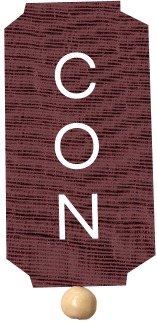
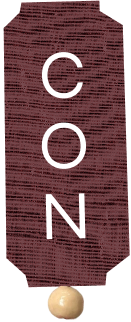
test

diff --git a/app/contact/contact.tsx b/app/contact/contact.tsx
@@ -452,7 +452,7 @@ export default function Contact() {
       );
 
       // If dragged up enough while open, close the form
-      if (isFormOpenRef.current && draggedDown < -200) {
+      if (isFormOpenRef.current && draggedDown < -100) {
         currentRotation.current = 0;
         if (formRef.current) {
           formRef.current.style.transition = "transform 0.4s ease-out";
@@ -492,7 +492,7 @@ export default function Contact() {
       }
 
       // If dragged down enough, treat as drawer handle pull
-      if (!isFormOpenRef.current && draggedDown > 200) {
+      if (!isFormOpenRef.current && draggedDown > 100) {
         currentRotation.current = 0;
         // Animate form to fully open, then hand off to state
         if (formRef.current) {
@@ -625,77 +625,77 @@ export default function Contact() {
       ref={contactRef}
     >
       <div
-        className="absolute inset-[0_0_auto_0] w-full ease-out duration-300 bg-(--slip) text-(--charm)"
+        className="absolute inset-[0_0_auto_0] w-full ease-out duration-500 bg-(--slip) text-(--charm)"
         style={{ transform: "translateY(-100%)" }}
         ref={formRef}
       >
-        <div className="absolute bottom-0 right-28 lg:right-76 w-20 lg:w-30 translate-[93%]">
+        <div className="absolute bottom-0 right-28 lg:right-78 w-20 lg:w-24 translate-[93.8%]">
           <svg
-            className="absolute z-1 top-0 -left-28/148 w-80/148"
-            viewBox="0 0 80 57"
+            className="absolute z-1 top-0 -left-26/107 w-80/107"
+            viewBox="0 0 80 50"
             fill="none"
             xmlns="http://www.w3.org/2000/svg"
           >
             <path
-              d="M0 0H80V1.16667C66.25 1.16667 66.25 21.5833 80 21.5833V57H0V0Z"
+              d="M0 0H80V1.16667C66.25 1.16667 66.25 21.5833 80 21.5833V50H0V0Z"
               fill="var(--slip)"
             />
           </svg>
           <div
-            className="relative aspect-148/805 origin-[33%_6%] rotate-0"
+            className="relative aspect-107/805 origin-[50%_7%] rotate-0"
             ref={momentumRef}
           >
             <Image
-              className="absolute top-0 left-0 aspect-103/209 w-103/148"
-              src="/images/chain-new.png"
+              className="absolute top-0 left-0 aspect-107/209 w-full"
+              src="/images/chain-final.png"
               alt="Chain"
-              width={103}
+              width={107}
               height={209}
             />
             <div
-              className="absolute top-[22.6%] left-[2.5%] aspect-148/623 w-full origin-[31%_0%] cursor-grab pointer-events-auto"
+              className="absolute top-182/805 left-0 aspect-107/623 w-full origin-[45%_-1%] cursor-grab pointer-events-auto"
               ref={swingingRef}
             >
-              <div className="relative aspect-148/205 w-full">
+              <div className="relative aspect-107/168 w-full">
                 <Image
-                  className="relative z-1 w-full aspect-148/205"
-                  src="/images/lanyard-string.png"
+                  className="relative z-1 w-full aspect-107/168"
+                  src="/images/djfskjdvf.png"
                   alt="Lanyard string"
-                  width={148}
-                  height={205}
+                  width={107}
+                  height={168}
                 />
                 <div
-                  className="absolute top-120/205 right-0 w-104/148 origin-[45%_0%]"
+                  className="absolute top-120/168 left-10/107 w-87/107 origin-[45%_0%]"
                   ref={swingExtra1Ref}
                 >
                   <Image
-                    className="w-full aspect-104/215"
-                    src="/images/con.png"
+                    className="w-full aspect-87/214"
+                    src="/images/con-tag.png"
                     alt="Con badge"
-                    width={104}
-                    height={215}
+                    width={87}
+                    height={214}
                   />
                   <div
-                    className="absolute top-206/215 right-2/104 w-116/104 origin-[55%_0%]"
+                    className="absolute top-208/214 -left-10/107 w-107/87 origin-[45%_-5%]"
                     ref={swingExtra2Ref}
                   >
                     <Image
-                      className="w-full aspect-116/146"
-                      src="/images/ta.png"
+                      className="w-full aspect-107/144"
+                      src="/images/ta-tag.png"
                       alt="Ta tag"
-                      width={115}
-                      height={146}
+                      width={107}
+                      height={144}
                     />
                     <div
-                      className="absolute top-142/146 right-5/116 w-87/116 origin-[45%_-3%]"
+                      className="absolute top-140/144 right-4/107 w-87/107 origin-[40%_-3%]"
                       ref={swingExtra3Ref}
                     >
                       <Image
-                        className="w-full aspect-87/155"
-                        src="/images/ct.png"
+                        className="w-full aspect-87/154"
+                        src="/images/ct-tag.png"
                         alt="Ct badge"
                         width={87}
-                        height={155}
+                        height={154}
                       />
                     </div>
                   </div>

diff --git a/app/components/home.tsx b/app/components/home.tsx
@@ -22,7 +22,7 @@ export default async function Home() {
       </div>
       <div className="flex-1 w-[calc(100%+32px)] lg:w-full -translate-x-4 lg:translate-x-0 flex flex-col gap-3 items-stretch justify-start">
         <p className="paragraph uppercase pl-4 lg:pl-0">Upcoming Events</p>
-        <div className="flex-1 flex gap-6 h-full px-4 overflow-x-scroll">
+        <div className="flex-1 flex gap-6 h-full px-4 lg:px-0 overflow-x-scroll">
           {events.map((event: any, index: number) => (
             <a
               key={event.id}
